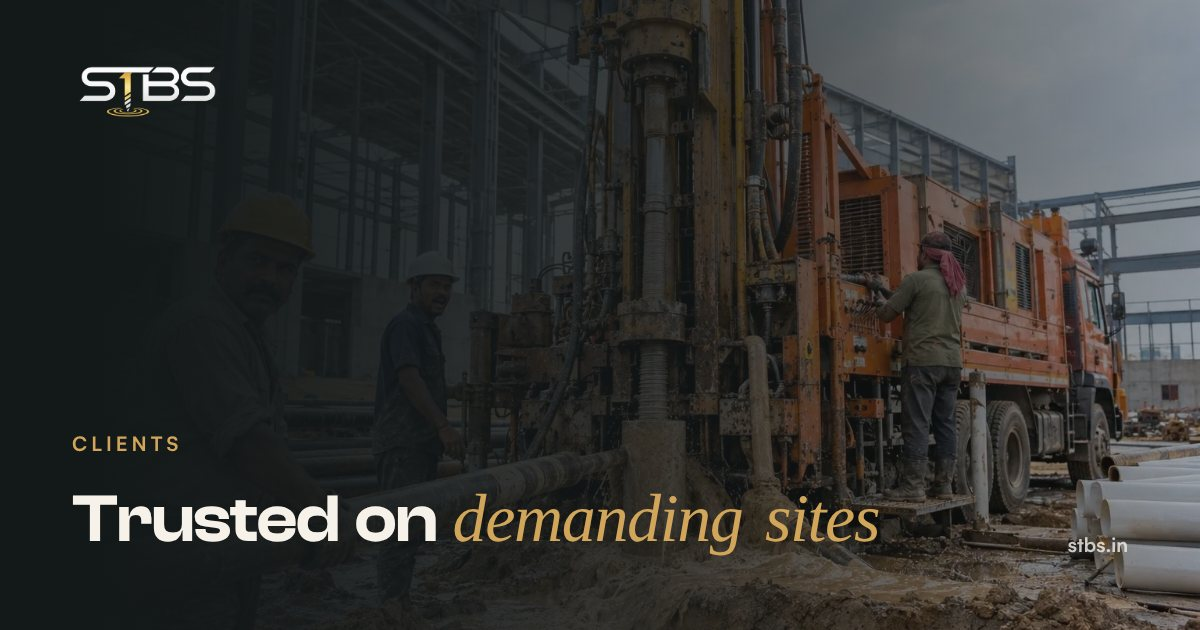
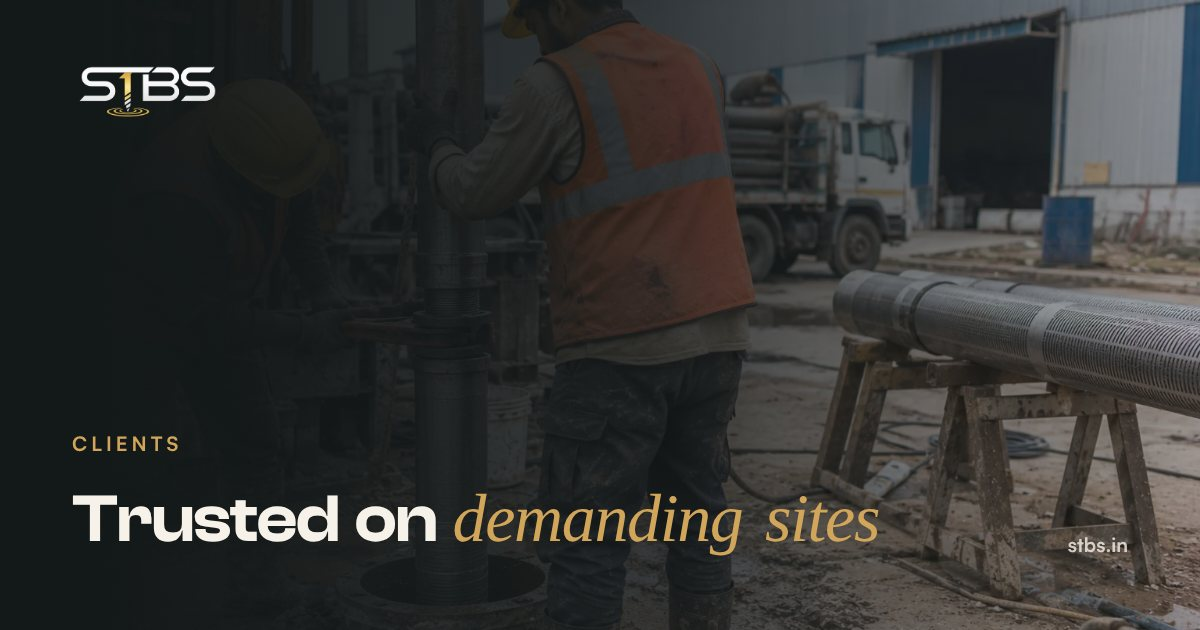
feat(website): text-only projects, new borewell drilling photo
Projects on the homepage and /projects no longer carry photos (back to text cards
and rows). The borewell drilling photo is replaced everywhere it was used (service
page hero, services sequence and index, About, social cards) with the crew guiding
a drill rod at the rig; the photo hero now anchors slightly above centre so heads
are not cropped.

Claude-Session: https://claude.ai/code/session_01HwEVKUVvrYcP6aRQhBRnA7

diff --git a/components/public/sections.tsx b/components/public/sections.tsx
@@ -7,7 +7,7 @@ import { ArrowRight, ArrowDown, ArrowUp, BadgeCheck, Boxes, Building2, CloudRain
 import { HOME_CTA, HOME_HERO, HOME_SECTORS, HOME_SERVICES, HOME_STATS } from "@/lib/website/home-defaults";
 import { SERVICE_PAGES, serviceHref, servicePageFor } from "@/lib/website/service-pages";
 import { SERVICE_ICONS } from "@/components/public/service-icons";
-import { HOME_PROJECTS, projectPhoto, resolveProjects } from "@/lib/website/projects-data";
+import { HOME_PROJECTS, resolveProjects } from "@/lib/website/projects-data";
 import { StatsStrip } from "@/components/public/stats-strip";
 import { PagePhoto } from "@/components/public/photo";
 import { formatIndianPhone, telHref } from "@/lib/phone";
@@ -748,31 +748,23 @@ export function CaseStudiesSection({ owner, content }: { owner?: RenderableSecti
           {ctaText && ctaUrl && <Link href={ctaUrl} className="link-arrow hidden shrink-0 md:inline-flex">{ctaText}</Link>}
         </Reveal>
         <ul className="mt-u6 grid auto-rows-fr gap-u3 lg:grid-cols-3">
-          {projects.map((p, i) => {
-            const photo = projectPhoto(i);
-            return (
-              <li key={`${p.title}-${i}`}>
-                <Reveal delay={i * 0.06} className="h-full">
-                  <Editable target={{ kind: "section", section: target }} label="Edit projects" className="block h-full">
-                    <Link href={ctaUrl || "/projects"} className="group flex h-full flex-col overflow-hidden rounded-[18px] bg-[var(--card)] shadow-[0_1px_0_rgba(19,24,25,.06)] transition-shadow duration-500 hover:shadow-[0_30px_60px_-40px_rgba(19,24,25,.55)]">
-                      <div className="relative aspect-[4/3] overflow-hidden">
-                        <Image src={photo.src} alt={photo.alt} fill sizes="(max-width:1024px) 100vw, 33vw" className="object-cover transition-transform duration-[900ms] ease-[cubic-bezier(0.28,0.11,0.32,1)] group-hover:scale-105 motion-reduce:transition-none" />
-                        {p.sector && <span className="absolute left-u2 top-u2 rounded-full bg-stbs-ink/75 px-3 py-[6px] text-[.75rem] font-bold uppercase tracking-[.12em] text-white backdrop-blur">{p.sector}</span>}
-                      </div>
-                      <div className="flex flex-1 flex-col p-u3">
-                        <h3 className="t-h3">{p.title}</h3>
-                        {p.summary && <p className="mt-u1 text-[1rem] leading-[1.5] text-stbs-body">{p.summary}</p>}
-                        <p className="mt-auto flex items-center gap-u1 pt-u3 text-[0.9375rem] text-stbs-muted">
-                          <MapPin size={16} strokeWidth={1.75} className="shrink-0 text-stbs-brand-mid" aria-hidden />
-                          {p.location}
-                        </p>
-                      </div>
-                    </Link>
-                  </Editable>
-                </Reveal>
-              </li>
-            );
-          })}
+          {projects.map((p, i) => (
+            <li key={`${p.title}-${i}`}>
+              <Reveal delay={i * 0.06} className="h-full">
+                <Editable target={{ kind: "section", section: target }} label="Edit projects" className="block h-full">
+                  <article className="flex h-full flex-col rounded-[18px] bg-[var(--card)] p-u4 shadow-[0_1px_0_rgba(19,24,25,.06)]">
+                    {p.sector && <span className="t-eyebrow">{p.sector}</span>}
+                    <h3 className="t-h3 mt-u2">{p.title}</h3>
+                    {p.summary && <p className="mt-u2 text-[1.0625rem] leading-[1.5] text-stbs-body">{p.summary}</p>}
+                    <p className="mt-auto flex items-center gap-u1 pt-u4 text-[0.9375rem] text-stbs-muted">
+                      <MapPin size={16} strokeWidth={1.75} className="shrink-0 text-stbs-brand-mid" aria-hidden />
+                      {p.location}
+                    </p>
+                  </article>
+                </Editable>
+              </Reveal>
+            </li>
+          ))}
         </ul>
         {ctaText && ctaUrl && <Link href={ctaUrl} className="btn btn-secondary mt-u5 w-full md:hidden">{ctaText}</Link>}
       </div>

diff --git a/components/public/projects-list.tsx b/components/public/projects-list.tsx
@@ -1,6 +1,5 @@
-import Image from "next/image";
 import { MapPin } from "lucide-react";
-import { projectPhoto, scopeLines, type ProjectCase } from "@/lib/website/projects-data";
+import { scopeLines, type ProjectCase } from "@/lib/website/projects-data";
 
 function slug(s: string): string {
   return s.toLowerCase().replace(/[^a-z0-9]+/g, "-").replace(/^-+|-+$/g, "").slice(0, 60);
@@ -14,7 +13,7 @@ function slug(s: string): string {
  */
 export function ProjectsList({ projects }: { projects: ReadonlyArray<ProjectCase> }) {
   return (
-    <ol className="grid gap-u8">
+    <ol className="rule">
       {projects.map((p, i) => {
         const lines = scopeLines(p.scope);
         const facts: Array<[string, string]> = [];
@@ -22,19 +21,17 @@ export function ProjectsList({ projects }: { projects: ReadonlyArray<ProjectCase
         if (p.output) facts.push(["Output", p.output]);
         if (p.year) facts.push(["Ordered", p.year]); // the documents give the order date, not a completion date
         return (
-          <li key={`${p.title}-${i}`} id={slug(p.title)} className="grid items-center gap-u4 lg:grid-cols-2 lg:gap-u8">
-            <div className={`relative aspect-[4/3] overflow-hidden rounded-[18px] ${i % 2 ? "lg:order-2" : ""}`}>
-              <Image src={projectPhoto(i).src} alt={projectPhoto(i).alt} fill sizes="(max-width:1024px) 100vw, 50vw" className="object-cover" />
-              <span className="absolute bottom-u2 left-u2 rounded-full bg-stbs-ink/70 px-3 py-1 text-[.75rem] text-white/85 backdrop-blur">Illustrative site photo</span>
-            </div>
+          <li key={`${p.title}-${i}`} id={slug(p.title)} className="rule grid gap-u3 py-u5 first:border-t-0 lg:grid-cols-[minmax(0,5fr)_minmax(0,7fr)] lg:gap-u6 lg:py-u7">
             <div>
               {p.sector && <p className="t-eyebrow">{p.sector}</p>}
-              <h2 className="t-h2 mt-u1 !text-[clamp(1.75rem,3vw,2.5rem)]">{p.title}</h2>
+              <h2 className="t-h3 mt-u1">{p.title}</h2>
               <p className="mt-u2 flex items-start gap-u1 text-sm text-stbs-muted">
                 <MapPin size={16} strokeWidth={1.75} className="mt-[2px] shrink-0 text-stbs-brand-mid" aria-hidden />
                 {p.location}
               </p>
-              {p.summary && <p className="t-body measure mt-u3">{p.summary}</p>}
+            </div>
+            <div>
+              {p.summary && <p className="t-body measure">{p.summary}</p>}
               {facts.length > 0 && (
                 <dl className="mt-u3 grid grid-cols-2 gap-u3 sm:grid-cols-3">
                   {facts.map(([k, v]) => (

diff --git a/app/(public)/borewell-drilling/page.tsx b/app/(public)/borewell-drilling/page.tsx
@@ -5,4 +5,4 @@ import { ServiceDetailPage } from "@/components/public/service-detail-page";
 import { pageMetadata } from "@/lib/page-metadata";
 import { SEO } from "@/lib/website/seo-copy";
 export const metadata: Metadata = pageMetadata({ ...SEO["borewell-drilling"], path: "/borewell-drilling", absoluteTitle: true });
-export default function BorewellDrilling() { return <ServiceDetailPage slug="borewell-drilling" eyebrow="Borewell drilling" title="Borewell Drilling, Planned Around *Your Site*" intro="Precision drilling for borewells in a range of diameters, planned around access, ground conditions and intended water use." diagram={<BorewellDiagram />} diagramTitle="Inside a borewell" icon={Drill} process specs={["Bore diameter: 150–300 mm (6\"–12\")", "uPVC casing: 100–500 mm, 10 kg/cm², ISI marked", "Rotary rigs and crews of our own", "Developed until the water runs clear and sand-free"]} bullets={["Ground survey up to 800 m before drilling", "Site visit and access planning", "Casing and aquifer isolation planning", "Installation coordination and handover"]} image="/services/borewell-rig-factory-site.webp" imageAlt="Crew handling drill pipe beside a truck-mounted drilling rig at a factory under construction"/>; }
+export default function BorewellDrilling() { return <ServiceDetailPage slug="borewell-drilling" eyebrow="Borewell drilling" title="Borewell Drilling, Planned Around *Your Site*" intro="Precision drilling for borewells in a range of diameters, planned around access, ground conditions and intended water use." diagram={<BorewellDiagram />} diagramTitle="Inside a borewell" icon={Drill} process specs={["Bore diameter: 150–300 mm (6\"–12\")", "uPVC casing: 100–500 mm, 10 kg/cm², ISI marked", "Rotary rigs and crews of our own", "Developed until the water runs clear and sand-free"]} bullets={["Ground survey up to 800 m before drilling", "Site visit and access planning", "Casing and aquifer isolation planning", "Installation coordination and handover"]} image="/services/borewell-drilling-rods.webp" imageAlt="Two crew members in hard hats and orange vests guiding a drill rod at a borewell rig"/>; }

diff --git a/lib/website/service-pages.ts b/lib/website/service-pages.ts
@@ -43,7 +43,7 @@ export function serviceHref(slug: string | null | undefined): string {
 
 export const SERVICE_CARD_IMAGES: Record<string, { src: string; alt: string }> = {
   "water-testing": { src: "/services/water-testing-survey.webp", alt: "A surveyor with a resistivity meter and electrodes laid along a field, explaining the survey to a farmer" },
-  "borewell-drilling": { src: "/services/borewell-rig-factory-site.webp", alt: "Crew handling drill pipe beside a truck-mounted drilling rig at a factory under construction" },
+  "borewell-drilling": { src: "/services/borewell-drilling-rods.webp", alt: "Two crew members in hard hats and orange vests guiding a drill rod at a borewell rig" },
   "rainwater-harvesting": { src: "/services/rainwater-harvesting-recharge.webp", alt: "Precast concrete rings beside an excavated recharge pit at a commercial site" },
   "tubewell-construction": { src: "/services/tubewell-rig-pipes.webp", alt: "A worker carrying white uPVC casing pipe past a drilling rig at an industrial site" },
   "borewell-material-supply": { src: "/services/material-supply-yard-stock.webp", alt: "uPVC and steel casing pipes, a submersible cable drum and a row of submersible pumps in a supply yard" },

diff --git a/lib/website/projects-data.ts b/lib/website/projects-data.ts
@@ -118,17 +118,3 @@ export function resolveProjects(raw: unknown): ProjectCase[] {
 export function scopeLines(scope: string | undefined): string[] {
   return (scope ?? "").split(/\r?\n/).map((l) => l.trim()).filter(Boolean);
 }
-
-/**
- * Illustrative photography for a project card. These are STBS site photos from comparable
- * work, not pictures of the client's own site, so pages that show them say so.
- */
-const PROJECT_PHOTOS = [
-  { src: "/services/rainwater-harvesting-recharge.webp", alt: "Precast concrete rings beside an excavated recharge pit at a commercial site" },
-  { src: "/services/borewell-rig-factory-site.webp", alt: "Crew handling drill pipe beside a truck-mounted drilling rig at a factory under construction" },
-  { src: "/services/tubewell-rig-pipes.webp", alt: "A worker carrying white uPVC casing pipe past a drilling rig at an industrial site" },
-] as const;
-
-export function projectPhoto(index: number): { src: string; alt: string } {
-  return PROJECT_PHOTOS[index % PROJECT_PHOTOS.length];
-}

diff --git a/components/page-hero.tsx b/components/page-hero.tsx
@@ -11,7 +11,7 @@ export function PageHero({ eyebrow, title, text, image, imageAlt }: { eyebrow: s
   if (image) {
     return (
       <section className="theme-public band-deep relative isolate flex min-h-[min(78svh,720px)] items-end overflow-hidden">
-        <Image src={image} alt={imageAlt ?? ""} fill priority sizes="100vw" className="-z-20 object-cover" />
+        <Image src={image} alt={imageAlt ?? ""} fill priority sizes="100vw" className="-z-20 object-cover object-[50%_15%]" />
         <div className="absolute inset-0 -z-10 bg-gradient-to-t from-[#131819] via-[#131819]/70 to-[#131819]/25" />
         <div className="container-x pb-[clamp(48px,7vw,96px)] pt-[clamp(120px,16vw,200px)]">
           {eyebrow && <p className="t-eyebrow !text-stbs-bronze-light">{eyebrow}</p>}

diff --git a/lib/website/page-defaults.ts b/lib/website/page-defaults.ts
@@ -90,8 +90,8 @@ export const ABOUT_SECTIONS: DefaultSection[] = [
     content: {
       heading: "34 years",
       headingLine2: "of expertise.",
-      image: "/services/borewell-rig-factory-site.webp",
-      imageAlt: "Crew handling drill pipe beside a truck-mounted drilling rig at a factory under construction",
+      image: "/services/borewell-drilling-rods.webp",
+      imageAlt: "Two crew members in hard hats and orange vests guiding a drill rod at a borewell rig",
       badgeText: "1992",
       badgeSubtext: "Established",
       sections: [
